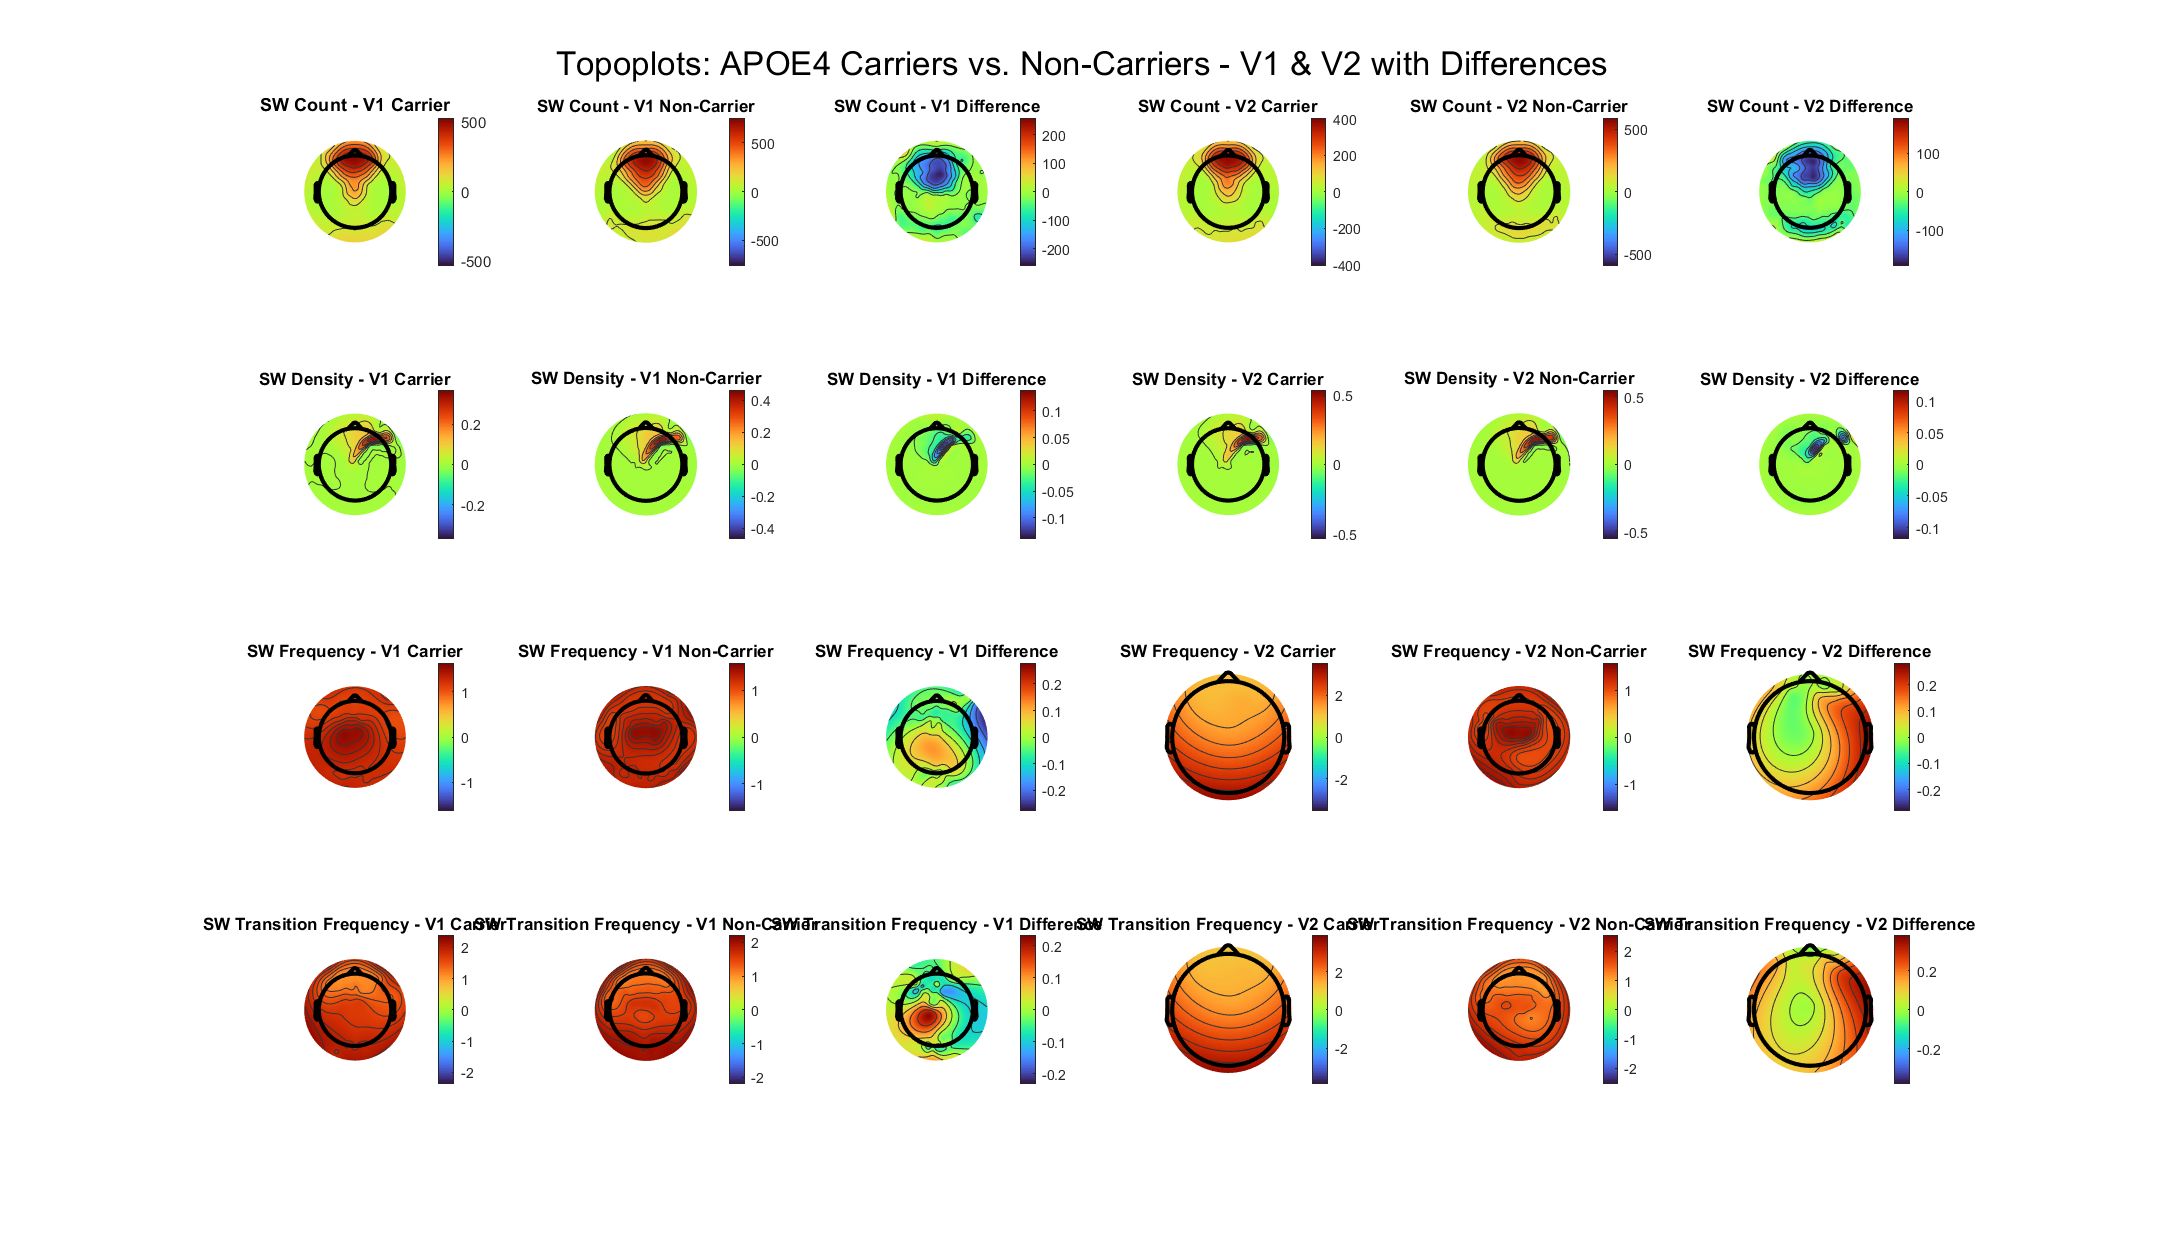
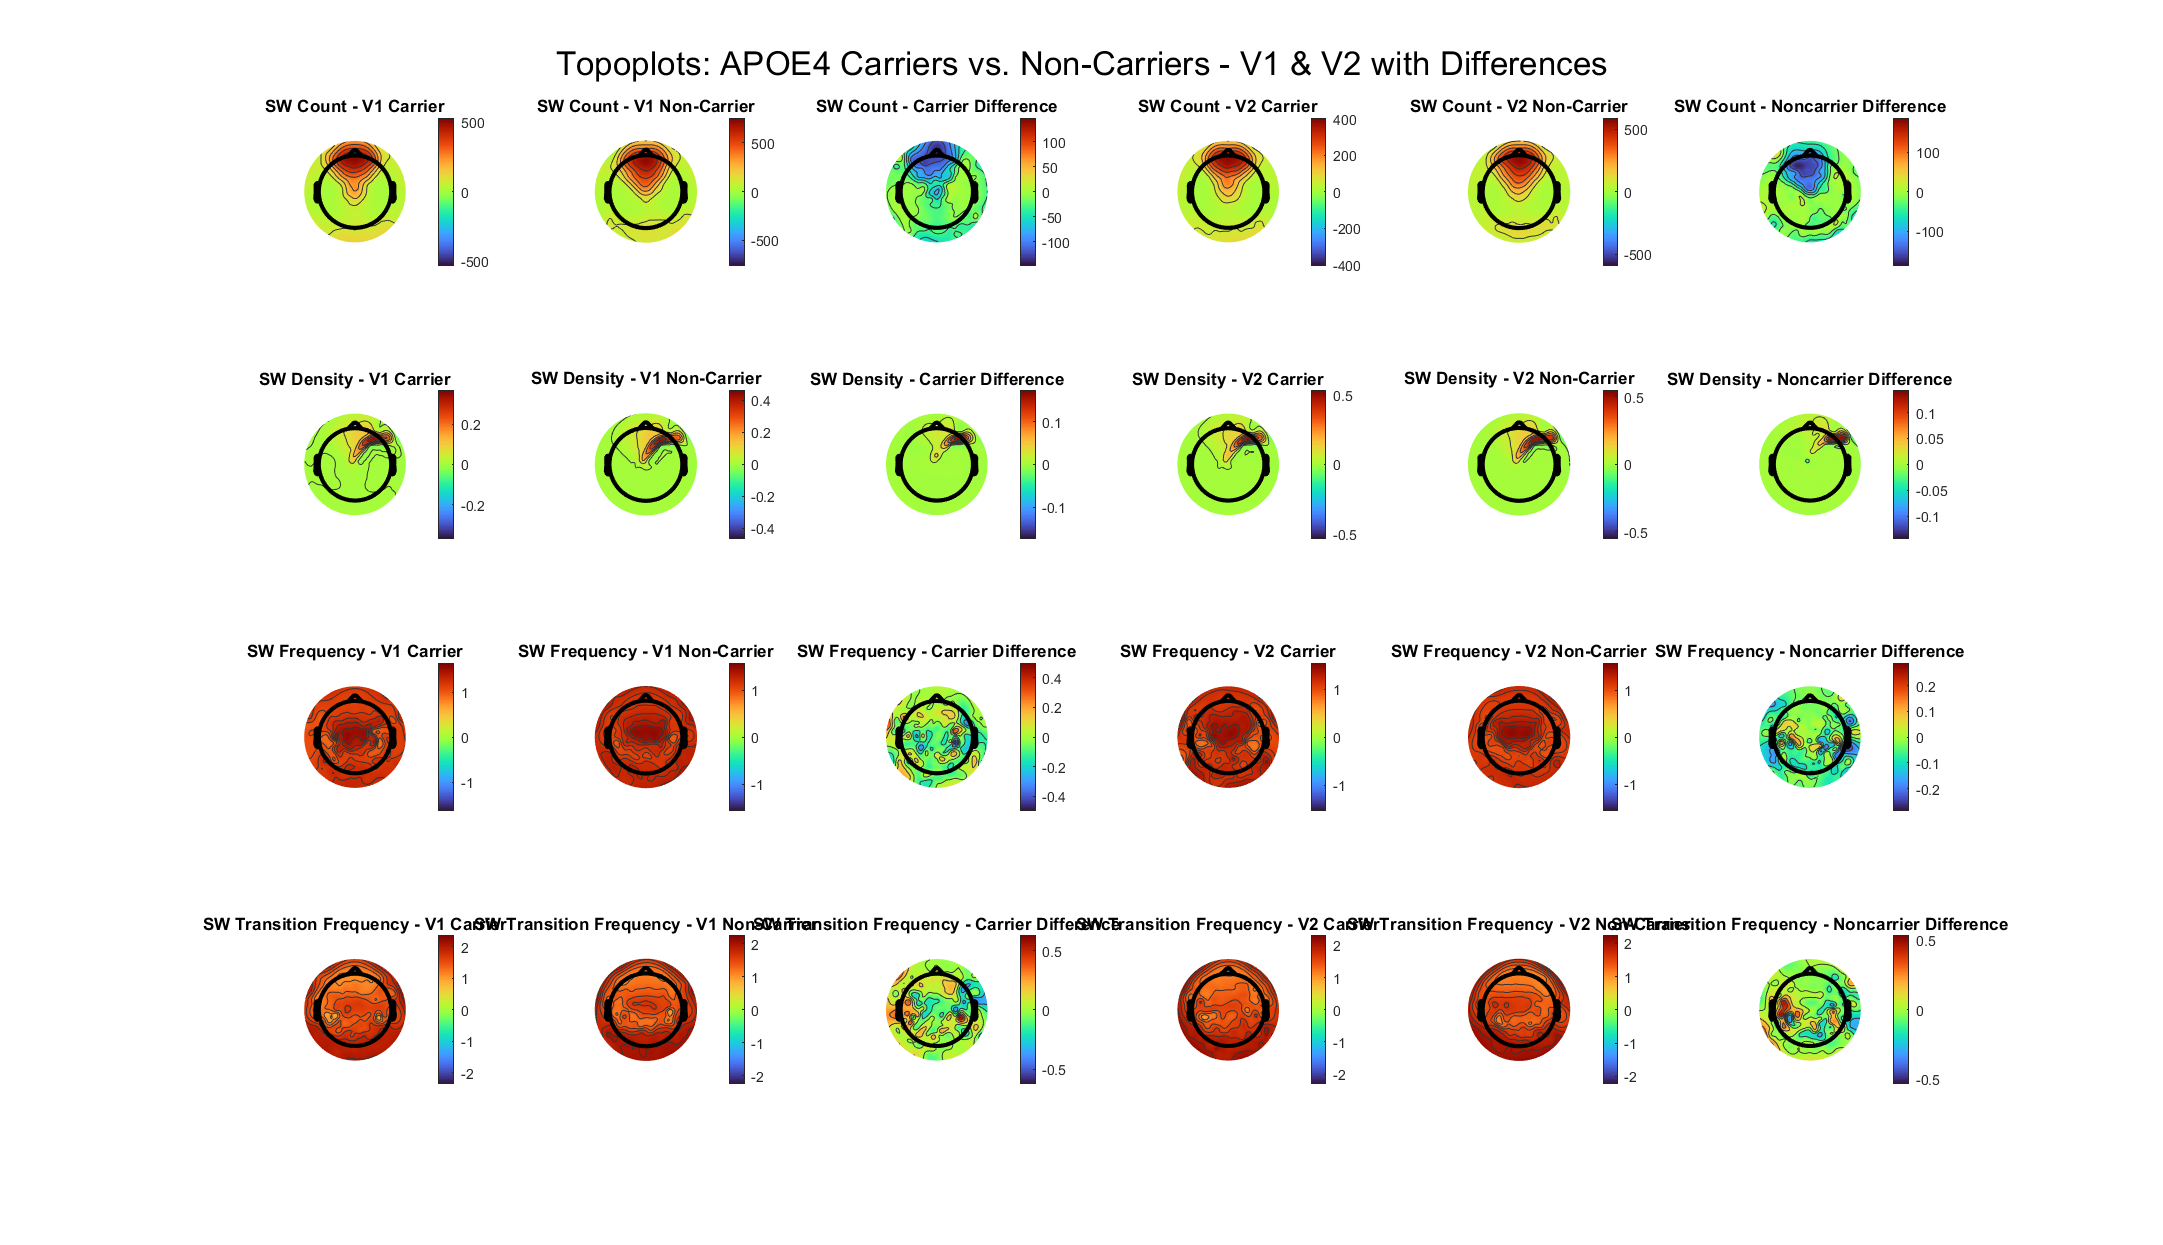
updating script

diff --git a/APOE4_differences_topoplots.m b/APOE4_differences_topoplots.m
@@ -10,10 +10,6 @@ nonCarrierIdx = find(demographics.apoe4_carrier == 0);
 % Channel locations
 chanlocs = data.chanlocs;
 
-% Find valid EEG channels
-validChanIdx = find(arrayfun(@(c) isfield(c, 'labels') && ~isempty(c.labels), chanlocs));
-chanlocs_valid = chanlocs(validChanIdx);
-
 % Metric fields and labels
 metricFields = {'sw_num', 'sw_dens', 'sw_freq', 'sw_trans_freq'};
 metricLabels = {'SW Count', 'SW Density', 'SW Frequency', 'SW Transition Frequency'};
@@ -34,22 +30,14 @@ for m = 1:length(metricFields)
     V2_data = V2.(field)';
 
     % Group means
-    V1_carrier = mean(V1_data(:, carrierIdx), 2);
-    V1_noncarrier = mean(V1_data(:, nonCarrierIdx), 2);
-    V2_carrier = mean(V2_data(:, carrierIdx), 2);
-    V2_noncarrier = mean(V2_data(:, nonCarrierIdx), 2);
+    V1_carrier = mean(V1_data(:, carrierIdx), 2, 'omitnan');
+    V1_noncarrier = mean(V1_data(:, nonCarrierIdx), 2, 'omitnan');
+    V2_carrier = mean(V2_data(:, carrierIdx), 2, 'omitnan');
+    V2_noncarrier = mean(V2_data(:, nonCarrierIdx), 2, 'omitnan');
 
     % Differences
-    V1_diff = V1_carrier - V1_noncarrier;
-    V2_diff = V2_carrier - V2_noncarrier;
-
-    % Only keep valid channels
-    V1_carrier = V1_carrier(validChanIdx);
-    V1_noncarrier = V1_noncarrier(validChanIdx);
-    V1_diff = V1_diff(validChanIdx);
-    V2_carrier = V2_carrier(validChanIdx);
-    V2_noncarrier = V2_noncarrier(validChanIdx);
-    V2_diff = V2_diff(validChanIdx);
+    carrier_diff = V2_carrier - V1_carrier;
+    noncarrier_diff = V2_noncarrier - V1_noncarrier;
 
     % Plotting (6 plots per row)
     baseCol = 6;
@@ -66,8 +54,8 @@ for m = 1:length(metricFields)
     colorbar;
 
     subplot(4, baseCol, row * baseCol + 3);
-    topoplot(V1_diff, chanlocs_valid);
-    title([label ' - V1 Difference']);
+    topoplot(carrier_diff, chanlocs_valid);
+    title([label ' - Carrier Difference']);
     colorbar;
 
     subplot(4, baseCol, row * baseCol + 4);
@@ -81,8 +69,8 @@ for m = 1:length(metricFields)
     colorbar;
 
     subplot(4, baseCol, row * baseCol + 6);
-    topoplot(V2_diff, chanlocs_valid);
-    title([label ' - V2 Difference']);
+    topoplot(noncarrier_diff, chanlocs_valid);
+    title([label ' - Noncarrier Difference']);
     colorbar;
 end
 
@@ -90,34 +78,3 @@ sgtitle('Topoplots: APOE4 Carriers vs. Non-Carriers - V1 & V2 with Differences',
 
 % Save figure
 saveas(gcf, 'Topoplots_APOE4_V1V2_Differences.png');
-
-% --- Annualized Differences Plot ---
-annualDiffs = data.grp.annualDiffs;
-
-figure('Position', [100, 100, 1000, 800]);
-
-for m = 1:length(metricFields)
-    field = metricFields{m};
-    label = metricLabels{m};
-
-    ann_data = annualDiffs.(field);  % channels x subjects
-
-    % Check orientation
-    if size(ann_data, 2) == 206  % unlikely, just in case
-        ann_data = ann_data';
-    end
-
-    % Compute group difference
-    diffMap = mean(ann_data(:, carrierIdx), 2) - mean(ann_data(:, nonCarrierIdx), 2);
-    diffMap = diffMap(validChanIdx);
-
-    subplot(2, 2, m);
-    topoplot(diffMap, chanlocs_valid);
-    title([label ' - Annualized Diff (Carrier - Non-Carrier)']);
-    colorbar;
-end
-
-sgtitle('Annualized Differences in SW Metrics by APOE4 Status', 'FontSize', 16);
-
-% Save figure
-saveas(gcf, 'Annualized_Diff_Topoplots.png');
